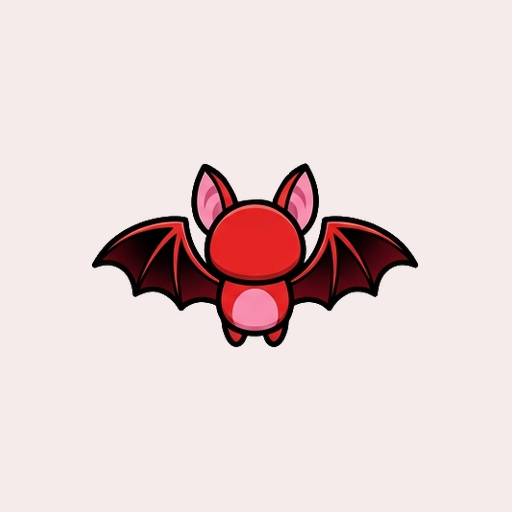
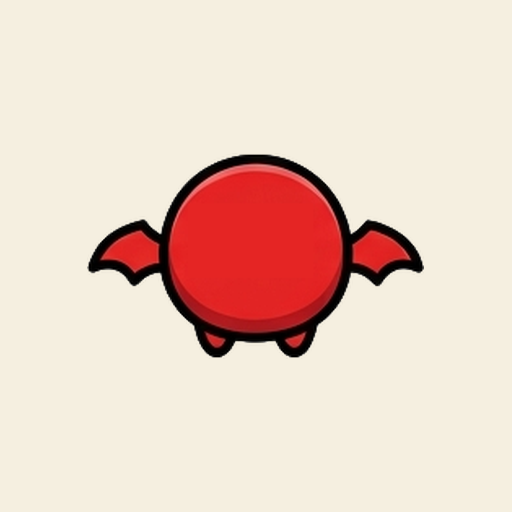
Ícone: personagem nível 1 (recém-chocado) sobre fundo creme #f5efe0; sw v2 -> v3

Changed region(s): [[0.1562, 0.2812, 0.8438, 0.7188]]

diff --git a/sw.js b/sw.js
@@ -1,4 +1,4 @@
-const SHELL = 'meucuidado-shell-v2';
+const SHELL = 'meucuidado-shell-v3';
 const ASSETS = ['./', './index.html', './manifest.json',
   './icon-192.png','./icon-512.png','./apple-touch-icon.png',
   './creature/char-egg.png','./creature/char-1.png','./creature/char-2.png','./creature/char-3.png','./creature/char-4.png','./creature/char-5.png'];